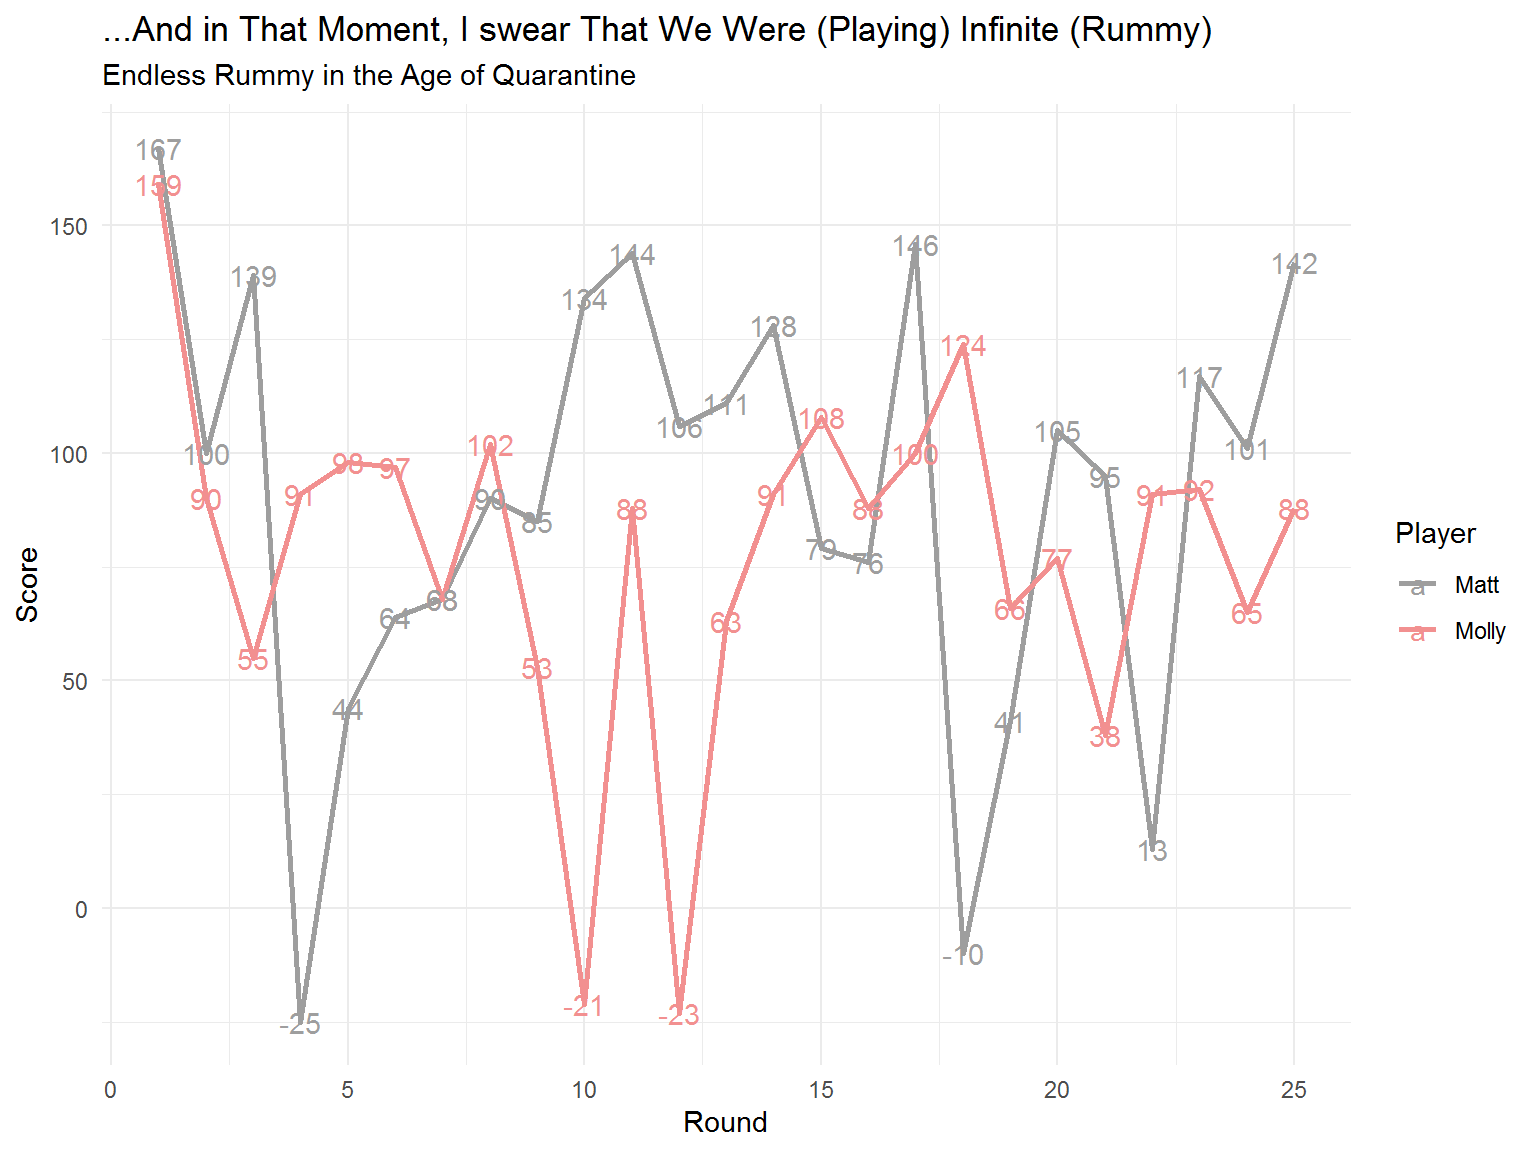
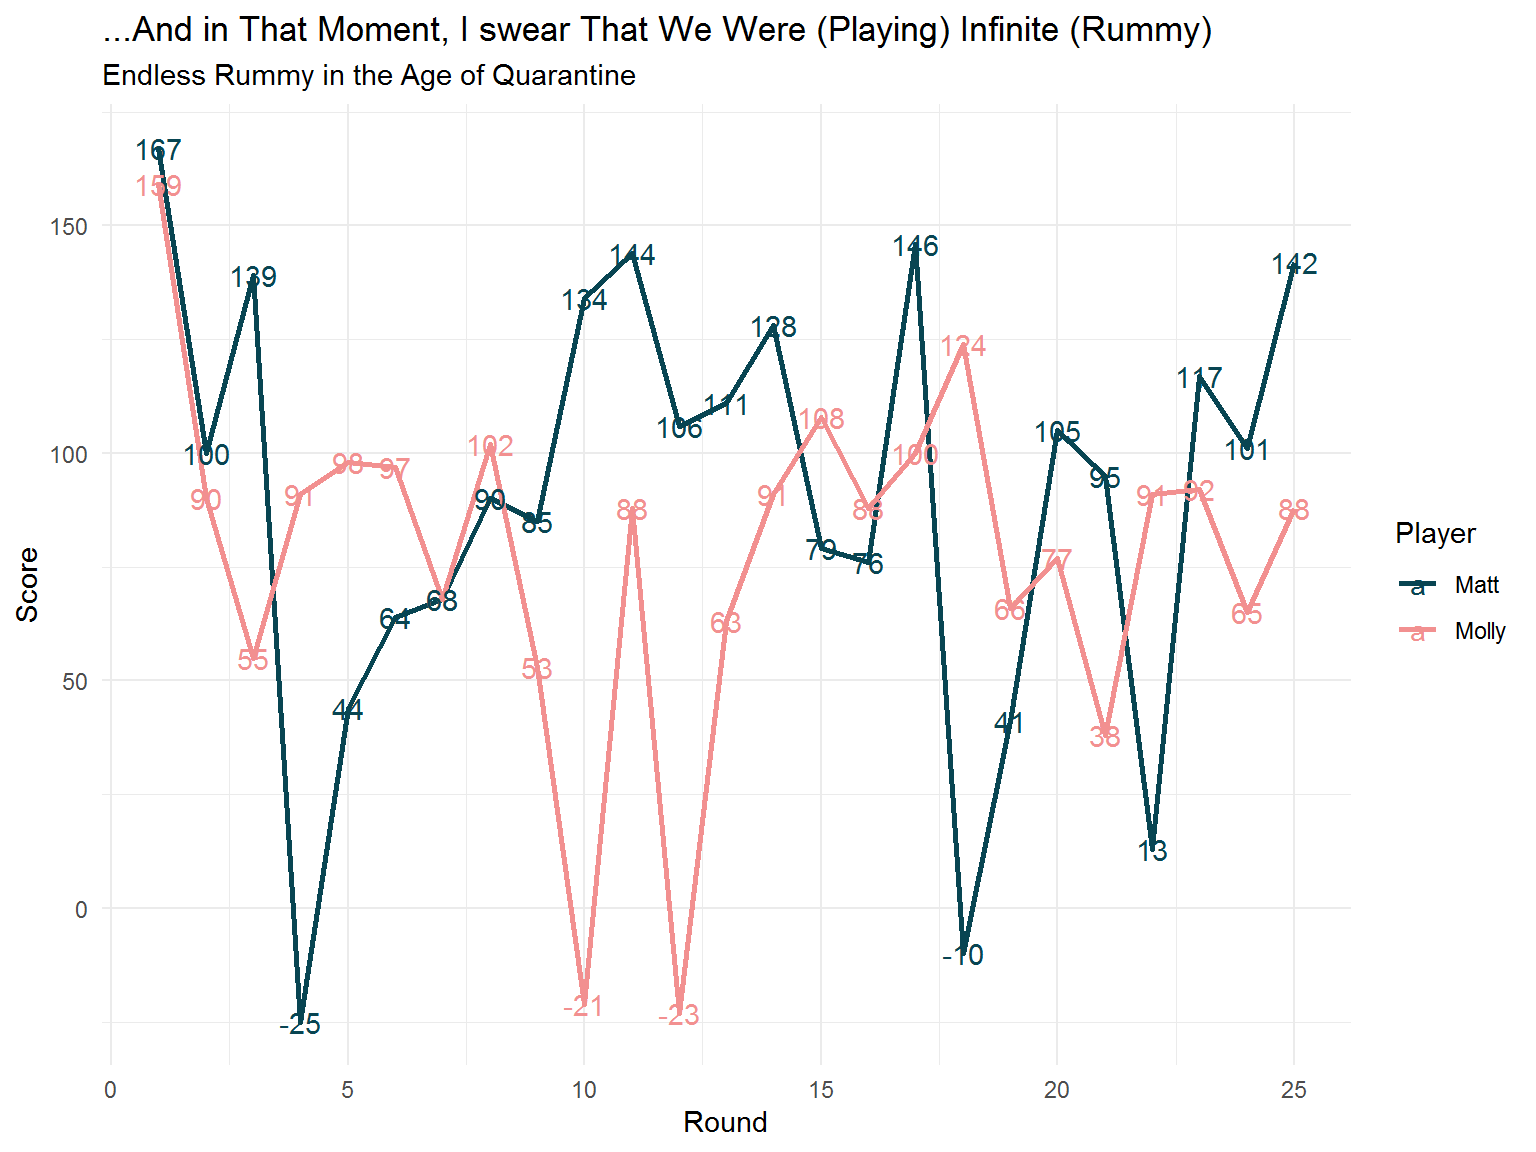
First post!

diff --git a/content/post/2020-04-26-rummy-5-million.html b/content/post/2020-04-26-rummy-5-million.html
@@ -1,8 +1,8 @@
 ---
-title: Rummy 5 Million
+title: Infinite Rummy in the Age of Quarantine
 author: Matt Roumaya
 date: '2020-04-26'
-slug: rummy-5-million
+slug: infinite-rummy-in-the-age-of-quarantine
 categories:
   - R
 tags: []
@@ -21,16 +21,16 @@ projects: []
 
 
 <p>In these <em>unprecedented times</em>, my wife Molly and I have been playing infinite rounds of Rummy
-♠ ♥ ♣ ♦. Since I don’t have any high-quality posts yet (and probably won’t any time soon💩), I’m just going to graph our endless rounds until we’re out of the weeds. My friend and former colleague (and data pro!) Steph showed me how she was graphing nightly games of Rummy 500 with her wife, and I found the idea so cute that I couldn’t resist stealing it 😺!</p>
+♠ ♥ ♣ ♦. Since I don’t have any high-quality posts yet (and probably won’t any time soon💩), I’m just going to graph our endless rounds until we’re out of the weeds. My friend and former colleague (and data pro!) Steph showed me how she was graphing nightly games of Rummy 500 with her wife, and I found the idea so fun and cute that I had to steal it 😺!</p>
 <p>I spent all weekend getting up and running with the deadly <a href="https://bookdown.org/yihui/blogdown/">blogdown</a> + <a href="https://gohugo.io/">Hugo</a> combo, and I’m ready to share my trivial data insights with the world!</p>
-<p>Molly and I love board games like <a href="https://boardgamegeek.com/boardgame/173346/7-wonders-duel/">7 Wonders Duel</a>, <a href="https://boardgamegeek.com/boardgame/178900/codenames">Codenames</a>, and some good ol’ <a href="https://boardgamegeek.com/boardgame/13/catan">Catan</a> when we can round up… anyone else…but we quickly came to terms that we’ll be riding out the <a href="https://www.phila.gov/2020-03-22-city-issues-stay-at-home-order-clarifying-restrictions-on-business-activity-in-philadelphia/">stay at home order</a> for quite a while.</p>
+<p>Molly and I love board games like <a href="https://boardgamegeek.com/boardgame/173346/7-wonders-duel/">7 Wonders Duel</a>, <a href="https://boardgamegeek.com/boardgame/178900/codenames">Codenames</a>, and some good ol’ <a href="https://boardgamegeek.com/boardgame/13/catan">Catan</a> when we can round up… anyone else…but we have quickly come to terms that we’ll be riding out the <a href="https://www.phila.gov/2020-03-22-city-issues-stay-at-home-order-clarifying-restrictions-on-business-activity-in-philadelphia/">stay at home order</a> for quite a while.</p>
 <p><strong>Let’s take a first glimpse at our scorecard data:</strong></p>
 <div class="figure">
 <img src="/post/2020-04-26-rummy-5-million_files/IMG-2914.jpg" alt="Messy Data With Competitive Annotation" />
 <p class="caption">Messy Data With Competitive Annotation</p>
 </div>
 <p>While the raw data explicitly shows that I’m a loser, we’ll see if that’s actually the case after some cleaning and viz.</p>
-<p><strong>Here’s a <code>tribble</code> of our cumulative rounds (last updated: Mon Apr 27 03:19:55 2020)</strong></p>
+<p><strong>Here’s a <code>tribble</code> of our cumulative rounds (last updated: Mon Apr 27 20:55:47 2020)</strong></p>
 <pre class="r"><code>library(tidyverse)
 
 rummy &lt;- tribble(
@@ -149,18 +149,40 @@ Matt
 </tr>
 </tbody>
 </table>
-<p><strong>Nice! Let’s have a first look at how we stack up round to round, and then I’ll conclude this post (for now), since it’s after 2am.</strong></p>
+<p><strong>Nice! Let’s have a first look at how we stack up round-to-round:</strong></p>
 <pre class="r"><code>rummy_wider %&gt;%
   group_by(Player) %&gt;%
   ggplot(aes(x=Round,y=Score,group=Player,color=Player)) +
   geom_line(size=1) +
   geom_text(aes(label=Score)) +
-  scale_color_manual(values=c(&quot;084552&quot;, &quot;#f29090&quot;)) +
+  scale_color_manual(values=c(&quot;#084552&quot;, &quot;#f29090&quot;)) +
   theme_minimal() +
   labs(title = &quot;...And in That Moment, I swear That We Were (Playing) Infinite (Rummy)&quot;,
           subtitle = &quot;Endless Rummy in the Age of Quarantine&quot;) </code></pre>
 <p><img src="/post/2020-04-26-rummy-5-million_files/figure-html/line%20plot-1.png" width="768" /></p>
-<p>And also, this post and my website was <em>conceptualized</em> on 4/26, which is Phil and Mango’s 5th birthday!! 👽</p>
+<p>Last night during a bout of insomnia, I came across the <a href="https://github.com/davidsjoberg/ggbump">new CRAN release for <code>ggbump</code></a> and had to give it a shot, and am pretty excited to find some more uses for it. This definitely isn’t the best visualization I’ve made, and would have been more interesting with a third player (maybe the <a href="https://www.huffpost.com/entry/throuple-house-hunters-hgtv_n_5e46d120c5b64d860fca24df">thruple from HGTV’s <strong>House Hunters</strong>?</a>)</p>
+<p>Anyway, to work with <code>ggbump</code>, we just need to rank each round. We did tie during round 7, so <code>ties.method = random</code> will make the decision for us.</p>
+<pre class="r"><code>library(ggbump)
+library(cowplot)
+
+rummy_bump &lt;- rummy_wider %&gt;%
+  group_by(Round) %&gt;%
+  mutate(rank = rank(Score,ties.method = &quot;random&quot;)) %&gt;%
+  ungroup()
+
+ggplot(rummy_bump, aes(Round,rank,color = Player)) +
+  geom_point(size = 7) +
+  geom_bump(size = 3, smooth = 6)+
+  scale_x_continuous(breaks = seq(1,25,1)) +
+  theme_minimal_grid(font_size = 14, line_size = 0)+
+  theme(panel.grid.major = element_blank()) +
+  scale_y_continuous(breaks = c(1,2), labels = c(&quot;1&quot; = &quot;Loser&quot;, &quot;2&quot; = &quot;Winner&quot;)) +
+  labs(y = &quot;&quot;) +
+  scale_color_manual(values = c(&quot;#084552&quot;,&quot;#F29090&quot;))</code></pre>
+<p><img src="/post/2020-04-26-rummy-5-million_files/figure-html/ggbump%20clean-1.png" width="864" /></p>
+<p>I know I said it’s not the best visualization, but I still think it looks pretty cool, and is easy enough to see approximately who the <strong>current</strong> winner is, and who the <strong>current</strong> loser is, since this is an ongoing process.</p>
+<p>My plan is to wrap this up in a <strong>Part 2</strong>, so stay tuned!</p>
+<p>And also, this post and website were <em>conceptualized</em> on 4/26, which is Phil and Mango’s 5th birthday!! 👽</p>
 <p>🎂🎈🎁<strong>HAPPY BIRTHDAY TO MANGO AND PHIL!</strong>🎂🎈🎁</p>
 <div class="figure">
 <img src="/post/2020-04-26-rummy-5-million_files/babies.jpg" alt="Baby Brothers" />

diff --git a/content/authors/admin/_index.md b/content/authors/admin/_index.md
@@ -5,8 +5,8 @@ bio: Data Analyst in Philadelphia, PA
 email: ""
 interests:
 - R
-- Survey Design
 - Data Analysis & Visualization
+- Survey Design & Research
 - Coffee
 - Death Metal
 - Vegan Baking
@@ -27,5 +27,5 @@ user_groups:
 - Visitors
 ---
 
-I'm a Data Analyst at the National Board of Medical Examiners. In my spare time, I'm a freelance analyst, specializing in survey design & analysis, data cleaning and visualization with R and SPSS, and ad-hoc data requests of all types. I'm looking to connect with fellow R enthusiasts to collaborate, learn, and work together, and am always open to exploring a freelance opportunity. I live in Philadelphia with my amazing wife Molly and our two cats, Mango and Phil.
+I'm a Data Analyst at the National Board of Medical Examiners. In my spare time, I'm a freelance analyst, specializing in survey design and analysis, data cleaning and visualization with R and SPSS, and ad-hoc data requests of all types. My goal is to share trivial and occasionally useful R content, learn from and connect with others in the data community, and am always open to exploring a freelance opportunity. I live in Philadelphia with my amazing wife Molly and our two cats, Mango and Phil.
 

diff --git a/content/home/about.md b/content/home/about.md
@@ -5,7 +5,7 @@ headless = true  # This file represents a page section.
 active = true  # Activate this widget? true/false
 weight = 20  # Order that this section will appear in.
 
-title = "Biography"
+title = ""
 
 # Choose the user profile to display
 # This should be the username of a profile in your `content/authors/` folder.
